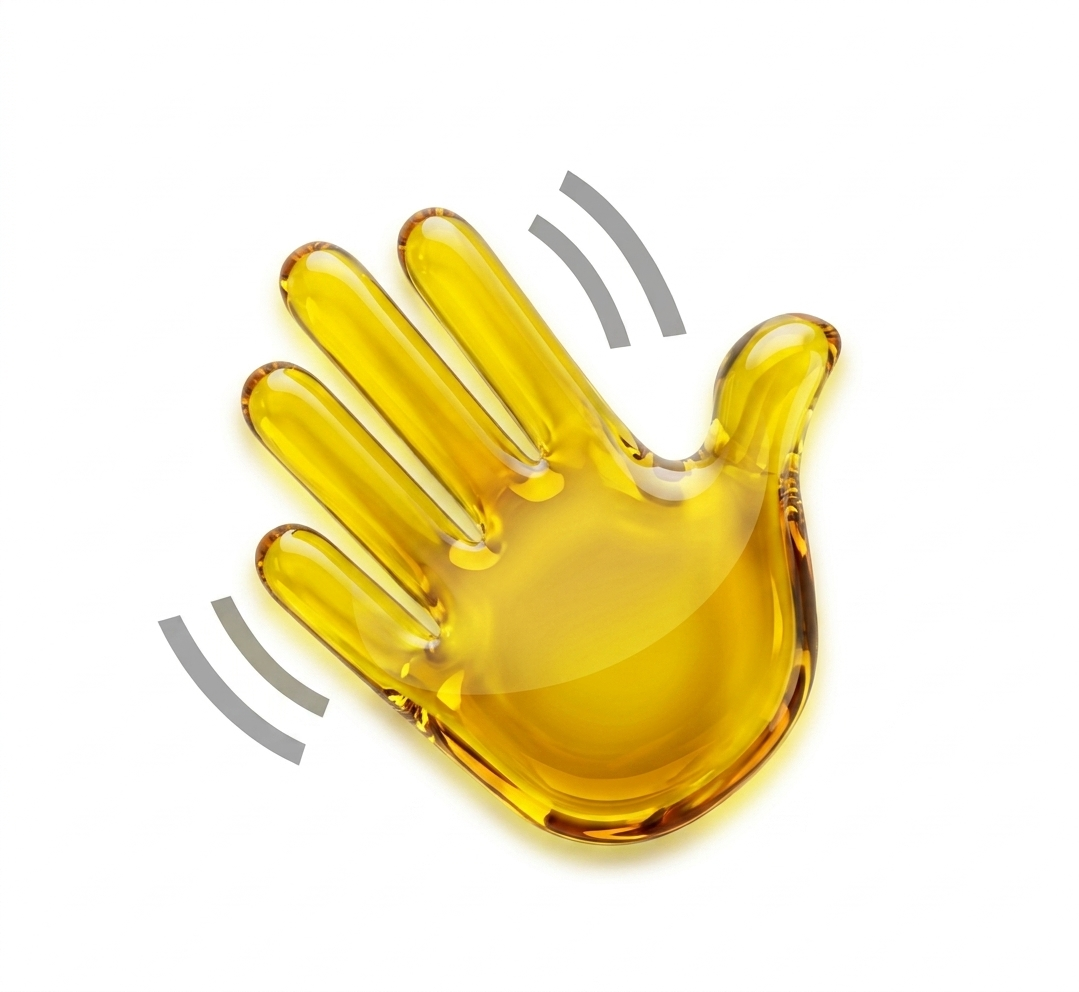
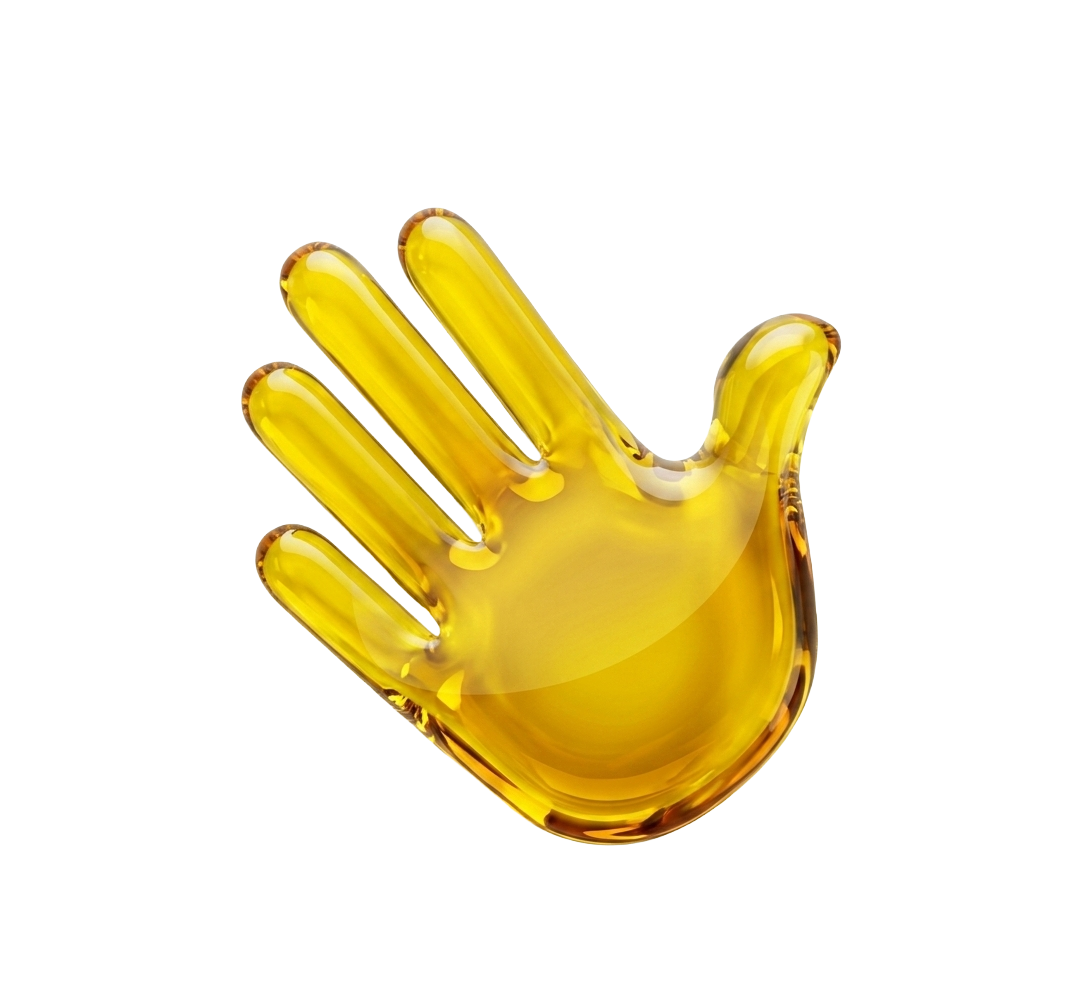
Replace wave.png with transparent-bg version

diff --git a/index.html b/index.html
@@ -502,7 +502,7 @@
 
           <!-- AI greeting message -->
           <div class="gpt-chat-msg assistant" id="chatAiGreeting">
-            <div class="gpt-msg-text" id="greetingText"><span class="greet-bold" style="font-weight:800;">Hello <img class="hero-wave" src="wave.png" alt="waving hand" draggable="false">
+            <div class="gpt-msg-text" id="greetingText"><span class="greet-bold" style="font-weight:800;">Hello <img class="hero-wave" src="wave.png?v=2" alt="waving hand" draggable="false">
 Julia is an AI product designer building the human side of AI ✨</span>
 <span class="greet-light">She is studying art, data science, and the design certificate @ UC Berkeley 🐻
 Currently @ TikTok 🎵</span></div>